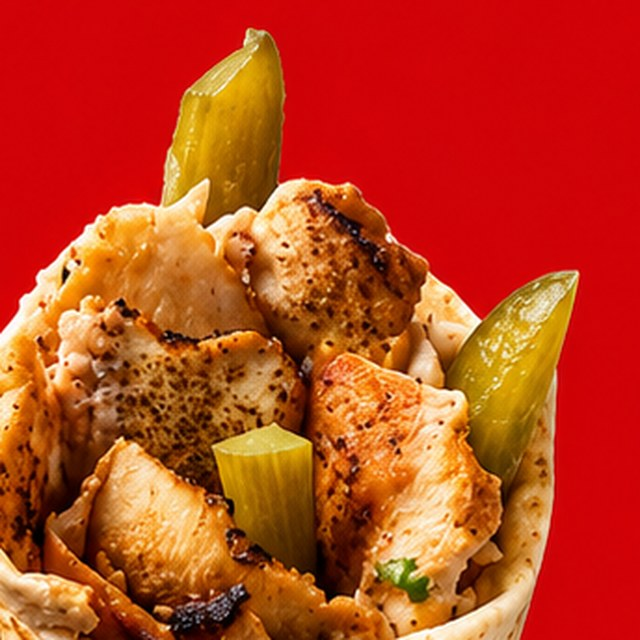
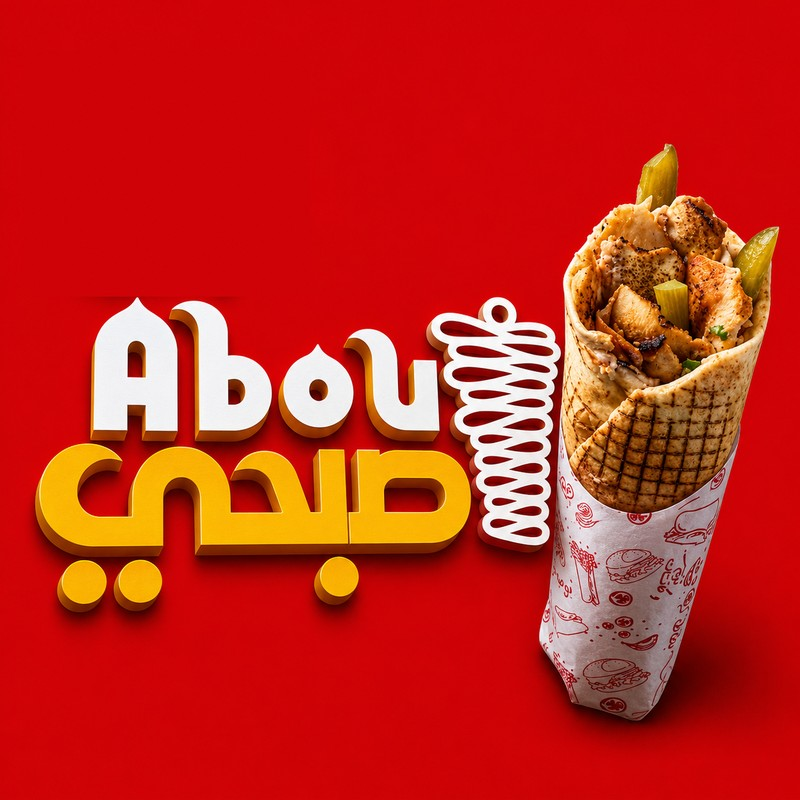
Use the full uploaded image for the hero badge, bubble removed
Replaced the cropped wrap-only photo with the complete original
composite (logo + wrap), only editing out the "Ahlan bel-rayes" speech
bubble (filled with matching background red, seamless since the
backdrop is flat). Switched the badge from a circular mask to a
rounded square so the full image displays without cropping anything.

Claude-Session: https://claude.ai/code/session_01QP81fkGJpfb2kHL16zRrqH

diff --git a/css/style.css b/css/style.css
@@ -223,11 +223,10 @@ html[dir="rtl"] .btn { font-family: var(--font-arabic-body); }
 }
 .hero-wrap-graphic {
   width: 100%;
-  max-width: 320px;
+  max-width: 380px;
   aspect-ratio: 1;
-  border-radius: 50%;
+  border-radius: 28px;
   overflow: hidden;
-  border: 8px solid var(--yellow);
   box-shadow: 0 16px 40px rgba(0,0,0,.28);
 }
 .hero-wrap-graphic img {
